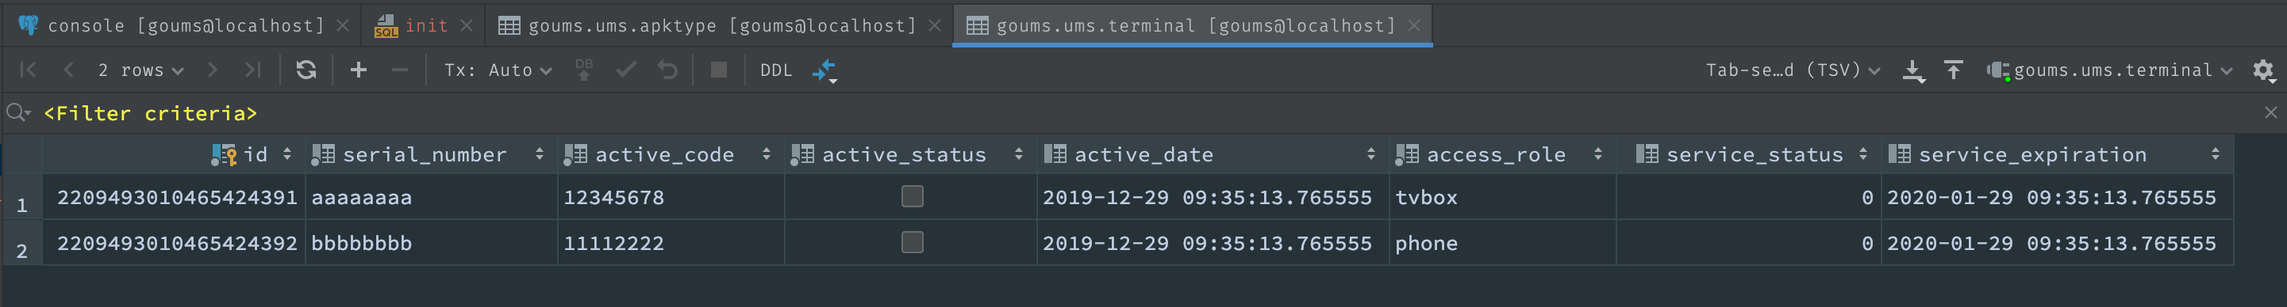
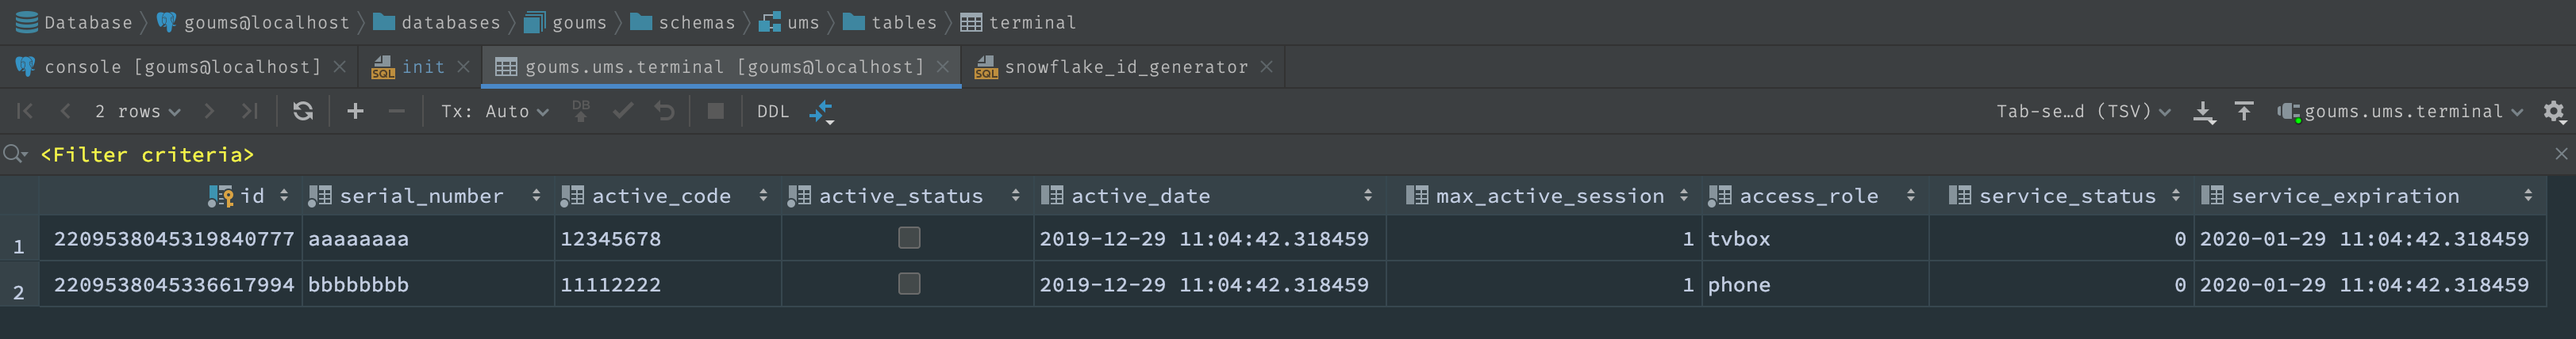
update readme add FAQ,  add field in sql for session limit

diff --git a/README.md b/README.md
@@ -8,6 +8,8 @@ this project back to active development, and re-design all.
 
 Thie project aims for a Minimum Viable Product (MVP) or a prototype of UMS.
 
+
+
  
 
 ## 1. purpose
@@ -82,8 +84,6 @@ create database goums;
 drop schema ums cascade;
 create schema ums;
 
-
-
 -- create extension if not exists "uuid-ossp" with schema queue;
 -- apk type
 drop table if exists ums.apktype;
@@ -113,6 +113,7 @@ serial_number varchar(64) not null,
 active_code varchar(64) not null,
 active_status boolean default false not null,
 active_date timestamp default now(),
+max_active_session bigint default 1,
 access_role varchar(32) default 'tvbox'::character varying not null,
 service_status smallint default 0,
 service_expiration timestamp default (now() + ((31)::double precision * '1 day'::interval))
@@ -147,14 +148,28 @@ use jetbrain's Datagrip to initial db
 
 
 
-## 4. tech stack
+## 3. tech stack
 
-1. base on golang and high performance go module like gRPC / flatbuffers / fasthttp / fastcache ......
-2. web UI base react javascript / HTML / css ......
-3. postgresql 11+
+1. base on golang and high performance go module like [gRPC](https://grpc.io) / [flatbuffers](https://google.github.io/flatbuffers/) / [fasthttp](https://github.com/valyala/fasthttp) / [jackc/pgx](https://github.com/jackc/pgx) ......
+2. web admin UI base [react-admin](https://github.com/marmelab/react-admin)  ......
+3. [postgresql 11+](https://postgresql.org)
 
-   
+Thanks a lot to all open source founder/contriber!!  and thanks a lot to  [jetbrain](https://www.jetbrains.com) for my favorite Goland IDE / Datagrip IDE / Webstorm IDE, thanks [GOlang](https://golang.org), those tools save many time so that i can share more happy time with my family and friends.
 
-## 4. License
+
+
+Any issues / discussion / PRs is welcome!!
+
+
+
+## 4. FAQ 
+1. why gRPC + flatbuffers inside goums, not gRPC + protobuffers , or RESTful ( http + JSON ) ?
+> to supports fast scaling deployment on daemon, every AAA with local cache ( session / member profile... etc ) to service multi-region, millions of terminals. UMS / AAA must synchronize session data / authentication data fast enouth.  via flatbuffers , fast decoding,  smaller binary data transfer to get  higher performance
+>
+> protobufers is balance choose for 3rd system / tools to interactive with goums
+>
+> RESTful  for old style web application only 
+
+## 5. License
 
 MIT
